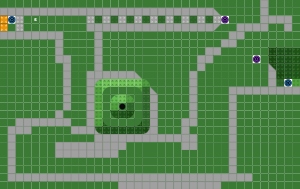
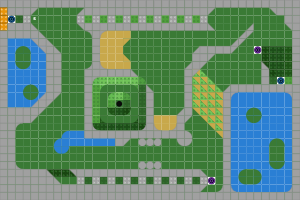
fix(renderer): correct diagonal wall fill triangles; update maps 008, 018, _test

diff --git a/public/js/renderer.js b/public/js/renderer.js
@@ -570,28 +570,26 @@ const Renderer = (function () {
       const fw = DIAG_WALL[tile];
       const [face, edge] = wallFaceColors(tile);
       ctx.fillStyle = face;
-      ctx.fillRect(x, y, T, T);
-      ctx.fillStyle = openColor;
       ctx.beginPath();
       if (fw === "LL") {
         ctx.moveTo(x, y);
-        ctx.lineTo(x, y + T);
+        ctx.lineTo(x + T, y);
         ctx.lineTo(x + T, y + T);
       }
       if (fw === "UR") {
         ctx.moveTo(x, y);
-        ctx.lineTo(x + T, y);
+        ctx.lineTo(x, y + T);
         ctx.lineTo(x + T, y + T);
       }
       if (fw === "LR") {
-        ctx.moveTo(x + T, y);
-        ctx.lineTo(x, y + T);
-        ctx.lineTo(x + T, y + T);
-      }
-      if (fw === "UL") {
         ctx.moveTo(x, y);
         ctx.lineTo(x + T, y);
         ctx.lineTo(x, y + T);
+      }
+      if (fw === "UL") {
+        ctx.moveTo(x + T, y);
+        ctx.lineTo(x, y + T);
+        ctx.lineTo(x + T, y + T);
       }
       ctx.closePath();
       ctx.fill();